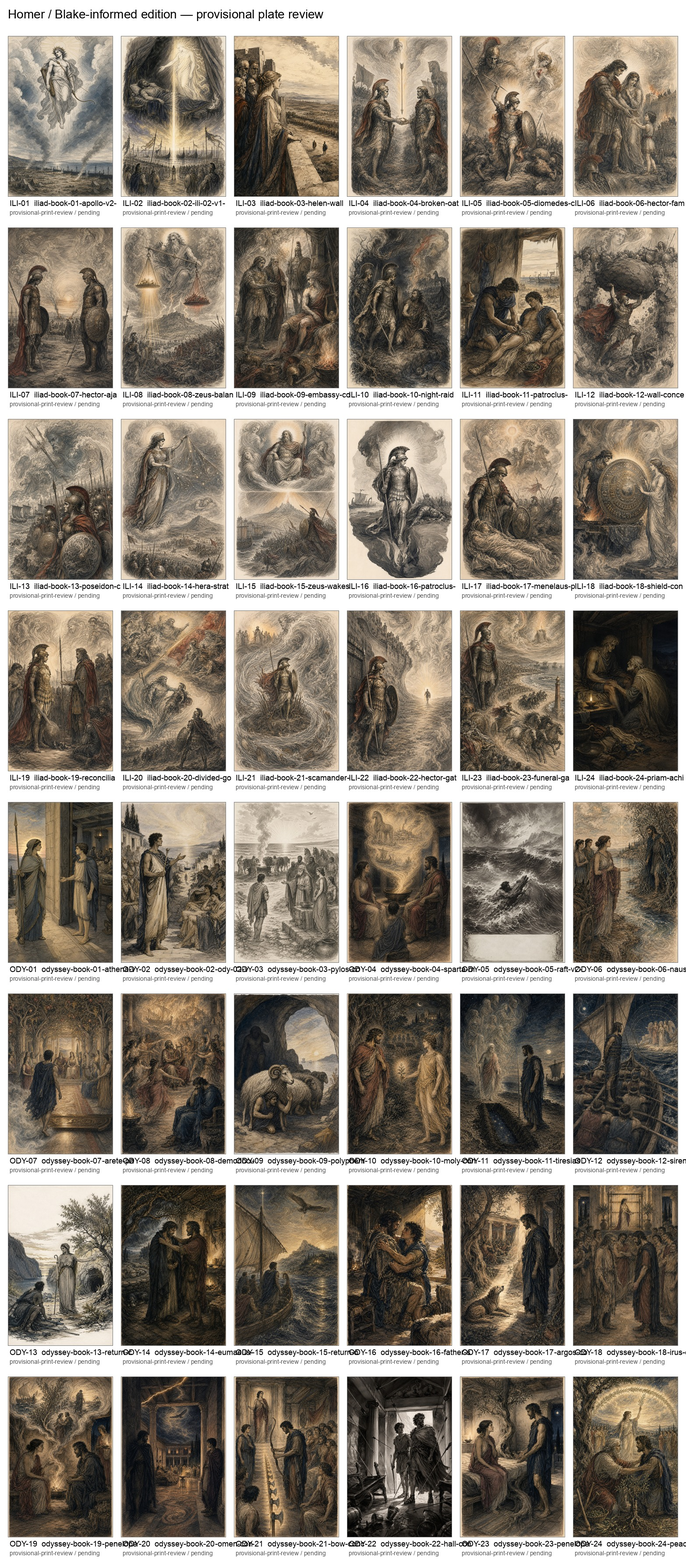
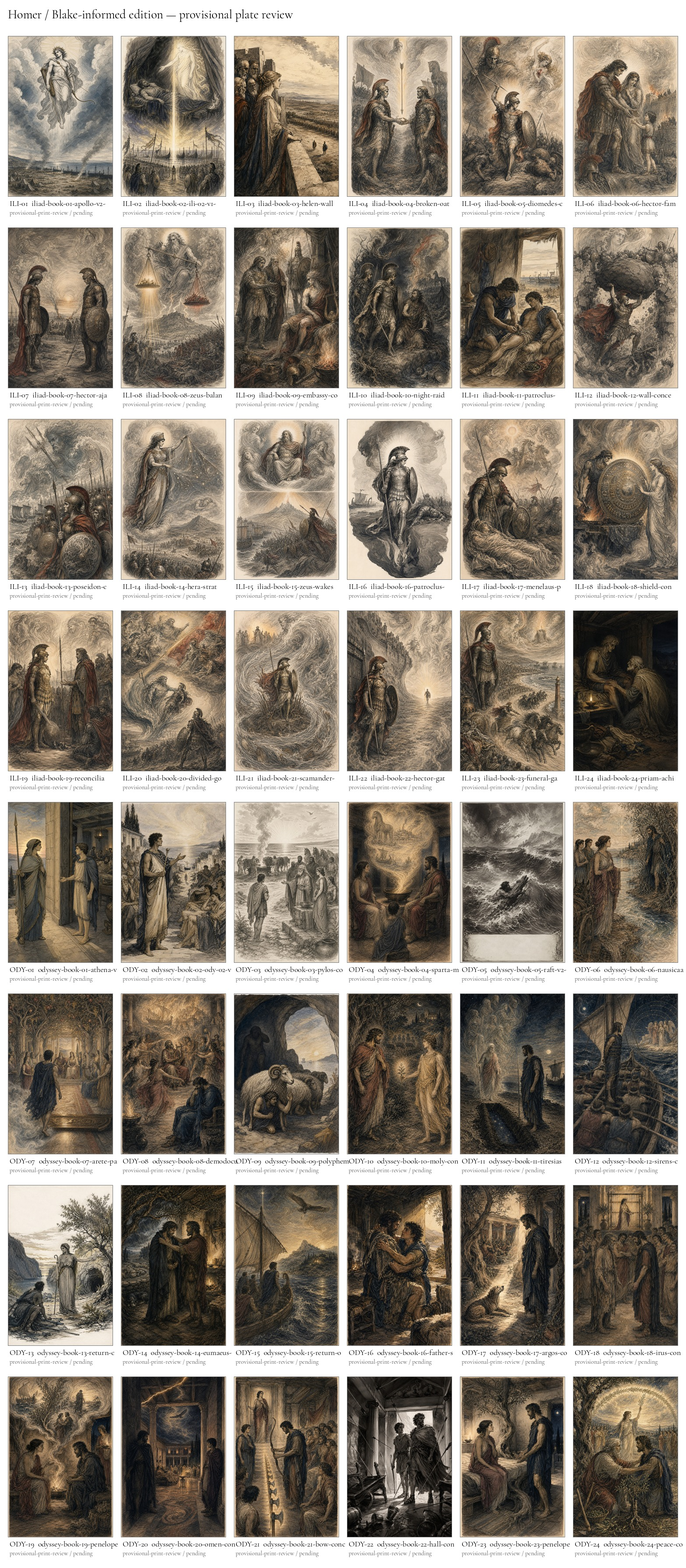
make plate contact sheet reproducible across runners

diff --git a/scripts/build_plate_review_contact_sheet.py b/scripts/build_plate_review_contact_sheet.py
@@ -25,13 +25,10 @@ HEADER_H = 64
 
 
 def font(size: int):
-    candidates = [
-        "/System/Library/Fonts/Supplemental/Arial.ttf",
-        "/Library/Fonts/Arial.ttf",
-    ]
+    candidates = [ROOT / "assets/fonts/CormorantGaramond-Regular.ttf"]
     for candidate in candidates:
-        if Path(candidate).is_file():
-            return ImageFont.truetype(candidate, size)
+        if candidate.is_file():
+            return ImageFont.truetype(str(candidate), size)
     return ImageFont.load_default()
 
 
